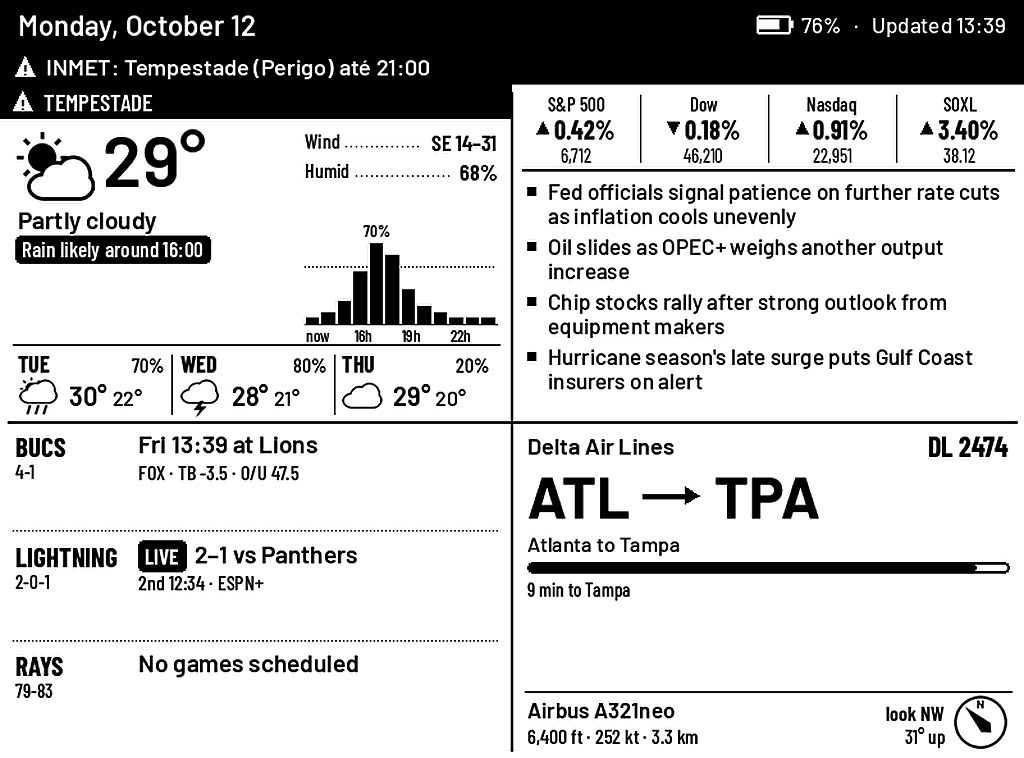
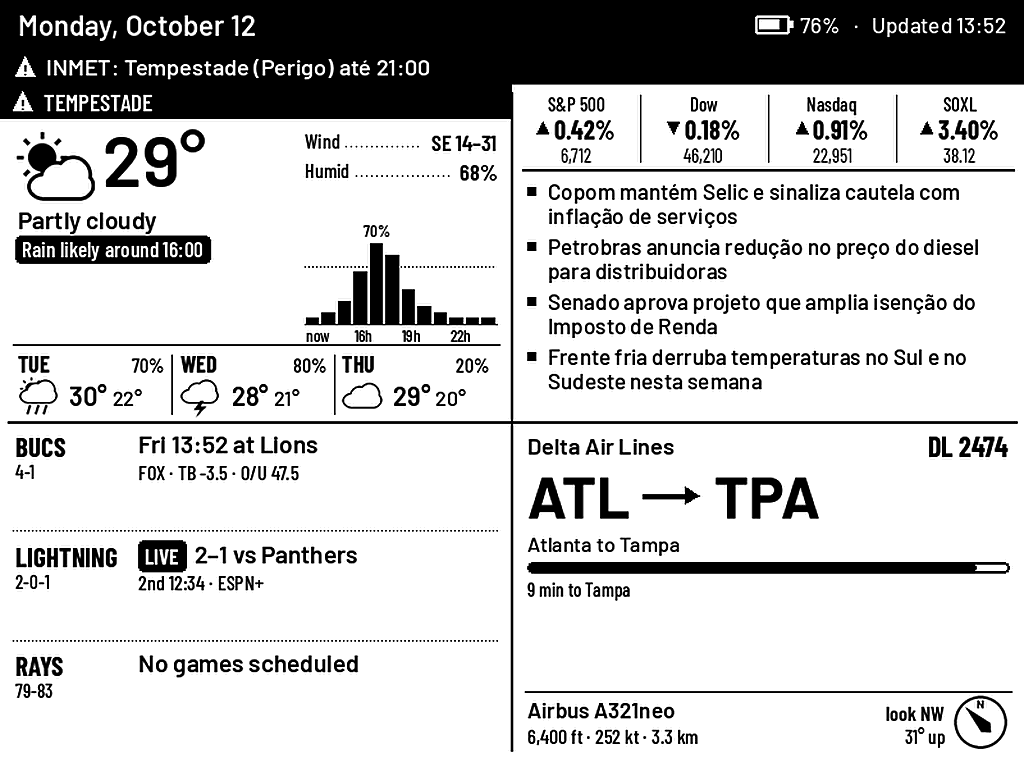
Portuguese news: g1, Agência Brasil, Folha, BBC News Brasil
- sources.FEEDS (WSJ_FEEDS kept as an alias) adds g1 (main, Economia,
  Política, Mundo, Tecnologia), Agência Brasil (últimas, Economia), Folha
  "Em cima da hora" and BBC News Brasil. Default feeds: g1, g1_economia,
  agencia_brasil. The WSJ feeds keep their old keys, so existing configs
  still work.
- Feed parser handles RSS 0.91/2.0 and Atom, RFC 822 and ISO 8601 dates,
  and the encoding in the XML declaration (Folha serves ISO-8859-1).
- Junk filter also drops VÍDEO / AO VIVO / PODCAST items, horoscopes and
  lottery results.
- New brief_lang setting (default Brazilian Portuguese) for Claude's
  one-line brief.
- Dashboard lists feeds by their own label instead of "WSJ ...".

Claude-Session: https://claude.ai/code/session_01GVZJyjXu3HFDda6DCF8SeA

diff --git a/server/web/dashboard.html b/server/web/dashboard.html
@@ -150,6 +150,7 @@ td:first-child{font-weight:600;white-space:nowrap}
       <div class="grid2" style="margin-top:8px">
         <label>Rewrite every (min)<input type="number" name="llm_brief_min" min="15" max="720"></label>
         <label>Model<input name="llm_model"></label>
+        <label>Brief language<input name="brief_lang" placeholder="Brazilian Portuguese"></label>
       </div>
       <div class="brief" id="briefText"></div>
       <button type="button" class="ghost" onclick="act({action:'brief'})">Regenerate brief now</button>
@@ -252,7 +253,7 @@ function fillForm(cfg) {
       box.appendChild(l);
     }
   };
-  mk('feeds', Object.fromEntries(Object.entries(S.feeds).map(([k,v]) => [k, 'WSJ ' + v])), cfg.feeds, 'feeds');
+  mk('feeds', S.feeds, cfg.feeds, 'feeds');
   mk('teams', S.teams, cfg.teams, 'teams');
 }
 
@@ -317,7 +318,7 @@ function render() {
   const src = S.sources;
   const st = (o) => o ? (o.error ? `<span style="color:var(--bad)">${o.error}</span> (last ok ${ago(o.age_s)})` : `ok · ${ago(o.age_s)}`) : '—';
   rows.push(['Weather', st(src.weather)], ['Alerts (' + (S.cfg.alerts || 'auto') + ')', st(src.alerts)], ['Quotes', st(src.quotes)]);
-  for (const [k, v] of Object.entries(src.news)) rows.push(['WSJ ' + (S.feeds[k] || k), st(v)]);
+  for (const [k, v] of Object.entries(src.news)) rows.push([S.feeds[k] || k, st(v)]);
   for (const [k, v] of Object.entries(src.sports)) rows.push([S.teams[k] || k, st(v)]);
   rows.push(['Plane feed', st(src.sky)], ['Claude brief', st(src.brief)]);
   if (src.events && src.events.upcoming && src.events.upcoming.length)

diff --git a/server/sources.py b/server/sources.py
@@ -348,18 +348,31 @@ def weather(cfg, force=False) -> Weather | None:
 
 # ============================================================ news
 
-WSJ_FEEDS = {
-    "world": ("World", "https://feeds.content.dowjones.io/public/rss/RSSWorldNews"),
-    "us": ("U.S.", "https://feeds.content.dowjones.io/public/rss/RSSUSnews"),
-    "markets": ("Markets", "https://feeds.content.dowjones.io/public/rss/RSSMarketsMain"),
-    "tech": ("Tech", "https://feeds.content.dowjones.io/public/rss/RSSWSJD"),
-    "business": ("Business", "https://feeds.content.dowjones.io/public/rss/WSJcomUSBusiness"),
-    "politics": ("Politics", "https://feeds.content.dowjones.io/public/rss/socialpoliticsfeed"),
-    "opinion": ("Opinion", "https://feeds.content.dowjones.io/public/rss/RSSOpinion"),
+# key -> (label, url). Brazilian feeds first; the WSJ ones keep their old
+# keys so an existing config.json still works.
+FEEDS = {
+    "g1": ("g1", "https://g1.globo.com/rss/g1/"),
+    "g1_economia": ("g1 Economia", "https://g1.globo.com/rss/g1/economia/"),
+    "g1_politica": ("g1 Política", "https://g1.globo.com/rss/g1/politica/"),
+    "g1_mundo": ("g1 Mundo", "https://g1.globo.com/rss/g1/mundo/"),
+    "g1_tecnologia": ("g1 Tecnologia", "https://g1.globo.com/rss/g1/tecnologia/"),
+    "agencia_brasil": ("Agência Brasil", "https://agenciabrasil.ebc.com.br/rss/ultimasnoticias/feed.xml"),
+    "agencia_brasil_economia": ("Agência Brasil Economia", "https://agenciabrasil.ebc.com.br/rss/economia/feed.xml"),
+    "folha": ("Folha", "https://feeds.folha.uol.com.br/emcimadahora/rss091.xml"),
+    "bbc_brasil": ("BBC News Brasil", "https://feeds.bbci.co.uk/portuguese/rss.xml"),
+    "world": ("WSJ World", "https://feeds.content.dowjones.io/public/rss/RSSWorldNews"),
+    "us": ("WSJ U.S.", "https://feeds.content.dowjones.io/public/rss/RSSUSnews"),
+    "markets": ("WSJ Markets", "https://feeds.content.dowjones.io/public/rss/RSSMarketsMain"),
+    "tech": ("WSJ Tech", "https://feeds.content.dowjones.io/public/rss/RSSWSJD"),
+    "business": ("WSJ Business", "https://feeds.content.dowjones.io/public/rss/WSJcomUSBusiness"),
+    "politics": ("WSJ Politics", "https://feeds.content.dowjones.io/public/rss/socialpoliticsfeed"),
+    "opinion": ("WSJ Opinion", "https://feeds.content.dowjones.io/public/rss/RSSOpinion"),
 }
+WSJ_FEEDS = FEEDS     # old name
 
 
-JUNK = re.compile(r"Roundup: Market Talk|^Best .*(Accounts|Rates|Cards)|Savings Accounts|CD Rates|Mortgage Rates Today|^WSJ (News|Podcast)|^The Journal\.|Crossword|^Opinion \|", re.I)
+JUNK = re.compile(r"Roundup: Market Talk|^Best .*(Accounts|Rates|Cards)|Savings Accounts|CD Rates|Mortgage Rates Today|^WSJ (News|Podcast)|^The Journal\.|Crossword|^Opinion \|"
+                  r"|^V[ÍI]DEOS?\b|^AO VIVO\b|^PODCAST\b|Hor[óo]scopo|Mega-Sena|Lotof[áa]cil|\bQuina\b|Lotomania|Dupla Sena|Timemania|Dia de Sorte|Super Sete|\+Milion[áa]ria", re.I)
 
 
 @dataclass
@@ -376,24 +389,55 @@ def _clean(s):
     return re.sub(r"\s+", " ", s)
 
 
-def _fetch_feed(key):
-    label, url = WSJ_FEEDS[key]
-    r = requests.get(url, headers={"User-Agent": UA_BROWSER}, timeout=10)
-    r.raise_for_status()
-    root = ET.fromstring(r.content)
+def _when(s):
+    """RFC 822 (RSS) or ISO 8601 (Atom, some Brazilian feeds) -> epoch, 0 if unknown."""
+    s = (s or "").strip()
+    if not s:
+        return 0
+    try:
+        return email.utils.parsedate_to_datetime(s).timestamp()
+    except Exception:
+        pass
+    try:
+        from datetime import datetime
+        dt = datetime.fromisoformat(s.replace("Z", "+00:00"))
+        return dt.timestamp() if dt.tzinfo else time.mktime(dt.timetuple())
+    except Exception:
+        return 0
+
+
+ATOM = "{http://www.w3.org/2005/Atom}"
+
+
+def _parse_feed(content, label):
+    """RSS 0.91/2.0 or Atom -> [Headline]. ElementTree honours the XML
+    declaration's encoding (Folha still serves ISO-8859-1)."""
+    root = ET.fromstring(content)
     out = []
-    for it in root.iter("item"):
-        title = _clean(it.findtext("title"))
+    for it in list(root.iter("item")) + list(root.iter(ATOM + "entry")):
+        atom = it.tag.startswith(ATOM)
+        f = (lambda t: it.findtext(ATOM + t)) if atom else it.findtext
+        title = _clean(f("title"))
         if not title or JUNK.search(title):
             continue
-        try:
-            pub = email.utils.parsedate_to_datetime(it.findtext("pubDate")).timestamp()
-        except Exception:
-            pub = 0
+        pub = _when(f("updated") or f("published")) if atom else \
+            _when(f("pubDate") or it.findtext("{http://purl.org/dc/elements/1.1/}date"))
+        link = ""
+        if atom:
+            ln = it.find(ATOM + "link")
+            link = ln.get("href", "") if ln is not None else ""
+        else:
+            link = (f("link") or "").strip()
         out.append(Headline(title=title, section=label, published=pub,
-                            summary=_clean(it.findtext("description"))[:300],
-                            link=(it.findtext("link") or "").strip()))
+                            summary=_clean(f("summary") if atom else f("description"))[:300], link=link))
     return out
+
+
+def _fetch_feed(key):
+    label, url = FEEDS[key]
+    r = requests.get(url, headers={"User-Agent": UA_BROWSER}, timeout=10)
+    r.raise_for_status()
+    return _parse_feed(r.content, label)
 
 
 _feeds: dict[str, Cached] = {}
@@ -402,8 +446,8 @@ _feeds: dict[str, Cached] = {}
 def headlines(cfg, force=False) -> list[Headline]:
     """Newest first across the chosen feeds, de-duplicated, within max_age_h."""
     items = []
-    for key in cfg.get("feeds", ["world", "us", "markets"]):
-        if key not in WSJ_FEEDS:
+    for key in cfg.get("feeds", ["g1", "g1_economia", "agencia_brasil"]):
+        if key not in FEEDS:
             continue
         c = _feeds.setdefault(key, Cached(900))
 
@@ -1023,7 +1067,8 @@ def brief(cfg, heads, wx, games, force=False) -> str:
             f"It is {time.strftime('%A ' + ('%H:%M' if CLOCK24 else '%I:%M %p'))}. Using ONLY the facts below, write ONE plain sentence, "
             "max 115 characters, no emoji, no quotes, no preamble. Lead with what matters most today: "
             "severe weather beats everything; then a local team playing today/tonight; otherwise the most "
-            "consequential news story. Don't restate routine weather unless rain or heat is notable.\n\n"
+            "consequential news story. Don't restate routine weather unless rain or heat is notable. "
+            f"Write it in {cfg.get('brief_lang') or 'English'}.\n\n"
             f"{w}\nSports: {g}\nHeadlines:\n" + "\n".join(lines))
         env = dict(os.environ)
         out = subprocess.run(

diff --git a/server/kindle_cases.py b/server/kindle_cases.py
@@ -19,17 +19,17 @@ wx = S.Weather(temp=29, feels=33, code=2, is_day=lt.tm_hour in range(7, 19), hum
                        for i in range(24)],
                rain_note="Rain likely around 16:00",
                alerts=[("Tempestade", "INMET: Tempestade (Perigo) até 21:00", "Severe")])
-heads = [S.Headline(t, "world", now - 600 * i) for i, t in enumerate([
-    "Fed officials signal patience on further rate cuts as inflation cools unevenly",
-    "Oil slides as OPEC+ weighs another output increase",
-    "Chip stocks rally after strong outlook from equipment makers",
-    "Hurricane season's late surge puts Gulf Coast insurers on alert",
-    "Treasury yields climb for a third session",
-    "Retail sales beat forecasts, lifting consumer stocks",
-    "Europe's carmakers brace for new tariff round",
-    "Tech giants race to secure power for AI data centers",
-    "Housing starts fall to lowest level in a year",
-    "Airlines raise holiday fares as demand stays strong"])]
+heads = [S.Headline(t, "g1", now - 600 * i) for i, t in enumerate([
+    "Copom mantém Selic e sinaliza cautela com inflação de serviços",
+    "Petrobras anuncia redução no preço do diesel para distribuidoras",
+    "Senado aprova projeto que amplia isenção do Imposto de Renda",
+    "Frente fria derruba temperaturas no Sul e no Sudeste nesta semana",
+    "Dólar fecha em queda e Ibovespa renova máxima do ano",
+    "Vendas no varejo sobem acima do esperado em agosto",
+    "Governo lança programa de crédito para pequenas empresas",
+    "STF retoma julgamento sobre marco temporal",
+    "Exportações do agronegócio batem recorde no trimestre",
+    "Companhias aéreas ampliam voos para o fim de ano"])]
 qs = [S.Quote(sym, name, p, p / (1 + c / 100), [p / (1 + c / 100) * (1 + c / 100 * k / 77) for k in range(78)], "open", now)
       for sym, name, p, c in [("^GSPC", "S&P 500", 6712.4, 0.42), ("^DJI", "Dow", 46210.1, -0.18),
                               ("^IXIC", "Nasdaq", 22950.7, 0.91), ("SOXL", "SOXL", 38.12, 3.4)]]

diff --git a/server/app.py b/server/app.py
@@ -65,7 +65,7 @@ DEFAULTS = {
     "full_every_min": 120,       # one flashing full refresh this often, to wipe ghosting
     "quiet": "",                 # "23-6" = no scheduled updates overnight
     "dark": False,
-    "feeds": ["world", "us", "markets"],
+    "feeds": ["g1", "g1_economia", "agencia_brasil"],   # keys of sources.FEEDS
     "max_age_h": 18,
     "news_pages": 4,
     "tickers": ["^GSPC", "^DJI", "^IXIC", "SOXL"],
@@ -83,6 +83,7 @@ DEFAULTS = {
     "iss": True, "launch": True,
     "llm_brief": True,
     "llm_brief_min": 60,
+    "brief_lang": "Brazilian Portuguese",
     "llm_model": "claude-haiku-4-5-20251001",
     "page_timeout_s": 180,       # detail pages fall back to the quad after this
     "notes": True,               # show note-box notes when they arrive (needs QUAD_NOTES_DB)
@@ -636,7 +637,7 @@ class H(BaseHTTPRequestHandler):
                     "error": sky.last_error if sky else None},
             "events": events.status if events else None,
         }
-        st["feeds"] = {k: v[0] for k, v in S.WSJ_FEEDS.items()}
+        st["feeds"] = {k: v[0] for k, v in S.FEEDS.items()}
         st["teams"] = {"g4": "Brasileirão G4 (live table)",
                        **{k: v[0] for k, v in S.TEAMS.items() if not k.startswith("bra_")}}
         st["panels"] = list(R.PANELS)

diff --git a/README.md b/README.md
@@ -16,7 +16,7 @@ An e-paper kitchen dashboard for the Seeed reTerminal E1001. Four corners of you
 | Corner | Shows |
 |---|---|
 | **Weather** | current conditions, rain chance for the next few hours, 3-day forecast, 15-minute rain nowcast, official alerts (INMET in Brazil, NWS in the US) |
-| **News & markets** | index and ticker moves, rotating WSJ headlines |
+| **News & markets** | index and ticker moves, rotating headlines (g1, Agência Brasil, Folha, BBC News Brasil; WSJ still available) |
 | **Your teams** | live score, last result or next game for any ESPN team, with TV and the betting line |
 | **Plane overhead** | airline, route, aircraft, altitude and which way to look, from live ADS-B. An ISS pass or a visible rocket launch takes this corner over |
 
@@ -50,7 +50,7 @@ A jailbroken first-gen **Kindle Paperwhite** works as a second screen: the serve
 
 ## Data sources
 
-All keyless: Open-Meteo (forecast + nowcast, worldwide), INMET (alerts, Brazil) or api.weather.gov (alerts, US), WSJ RSS, Yahoo Finance spark, ESPN's site API, adsb.lol + adsbdb, CelesTrak + Launch Library 2. The one-line brief uses the [`claude`](https://docs.claude.com/en/docs/claude-code) CLI if it's installed and logged in. Turn `llm_brief` off otherwise.
+All keyless: Open-Meteo (forecast + nowcast, worldwide), INMET (alerts, Brazil) or api.weather.gov (alerts, US), RSS from g1 / Agência Brasil / Folha / BBC News Brasil (or WSJ), Yahoo Finance spark, ESPN's site API, adsb.lol + adsbdb, CelesTrak + Launch Library 2. The one-line brief uses the [`claude`](https://docs.claude.com/en/docs/claude-code) CLI if it's installed and logged in. Turn `llm_brief` off otherwise.
 
 ## Setup
 
